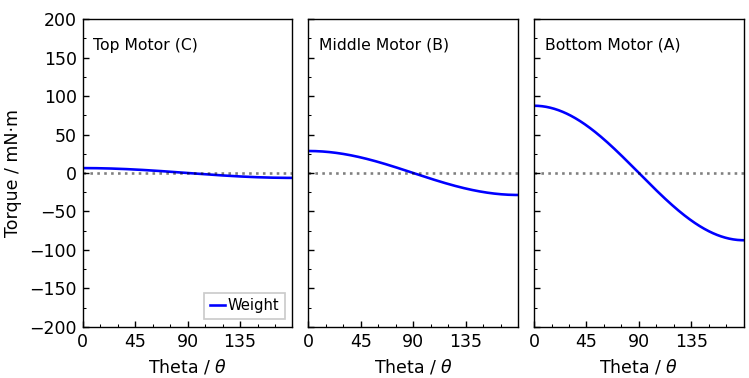
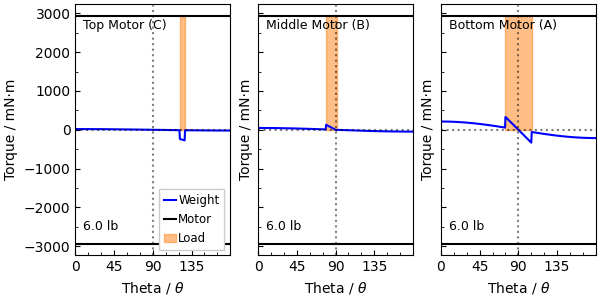
Readme updates

Changed region(s): [[0.0, 0.0, 1.0, 0.99], [0.9, 0.54, 0.93, 0.6], [0.75, 0.3, 0.78, 0.33]]

diff --git a/Software/Moving Model/V0.6/ST3215 Servo Torque Model V0.2.py b/Software/Moving Model/V0.6/ST3215 Servo Torque Model V0.2.py
@@ -140,75 +140,78 @@ titles = ["Top Motor (C)", "Middle Motor (B)", "Bottom Motor (A)"]
 ##################### Plotting
 
 fig, ax = plt.subplots(
-    1, 1, sharex=True, sharey=True,
+    1, 3, sharex=True, sharey=True,
     figsize=(6, 3),
     constrained_layout=True
 )
 
 
 
-wt, st = [], []
-i = 2
+
+for i in range(0,3):
+    wt, st = [], []
 
 
+    for theta in x:
+        active = minmax[i][0] <= theta <= minmax[i][1]
+        weights, lengths = motor_loads(active)
 
+        moments = np.sum(weights * lengths, axis=1)
+        wt.append(moments[i] * G * np.cos(np.deg2rad(theta)) * 1000)
+        st.append(SPRING_K * (theta + (360*extra_winds) + spring_angle_offset ) * 1000)
 
-for theta in x:
-    active = minmax[i][0] <= theta <= minmax[i][1]
-    weights, lengths = motor_loads(active)
+    ##### Plot 1
+    save_text = "Torque_Raw.png"
+    ax[i].plot(x, wt, "b", alpha=1, label="Weight")
+    ax[i].plot(x, np.ones_like(x) * MOTOR_TORQUE * 1000, "k", label="Motor")
+    ax[i].plot(x, -np.ones_like(x) * MOTOR_TORQUE * 1000, "k")
+    ax[i].axhline(0, color="k", linestyle="dotted", alpha=0.5)
+    ax[i].axvline(90, color="k", linestyle="dotted", alpha=0.5)
 
-    moments = np.sum(weights * lengths, axis=1)
-    wt.append(moments[i] * G * np.cos(np.deg2rad(theta)) * 1000)
-    st.append(SPRING_K * (theta + (360*extra_winds) + spring_angle_offset ) * 1000)
-
-ax.plot(x, np.ones_like(x) * MOTOR_TORQUE * 1000, "k", label="Motor")
-ax.plot(x, -np.ones_like(x) * MOTOR_TORQUE * 1000, "k")
-ax.plot(x, wt, "b", alpha=0.3, label="Weight")
-ax.plot(x, st, "r", alpha=0.3, label="Spring")
-ax.plot(x, np.array(wt) + np.array(st), "m", label="Total")
-ax.axhline(0, color="k", linestyle="dotted", alpha=0.5)
-
-ax.add_patch(
-    patches.Rectangle(
-        (minmax[i][0], 0),
-        minmax[i][1] - minmax[i][0],
-        MOTOR_TORQUE * 1000,
-        alpha=0.5,
-        color="tab:orange",
-        label = 'Load',
+    ax[i].add_patch(
+        patches.Rectangle(
+            (minmax[i][0], 0),
+            minmax[i][1] - minmax[i][0],
+            MOTOR_TORQUE * 1000,
+            alpha=0.5,
+            color="tab:orange",
+            label = 'Load',
+        )
     )
-)
-
-ax.text(0.05, 0.1, '%.1f lb Load \nKs: 7.5 in·lbf' % PLATE_LB, transform=ax.transAxes, fontsize=9)
-ax.text(0.05, 0.9, titles[i], transform=ax.transAxes, fontsize=9)
-ax.set_xlim(-0, 180)
-ax.set_xticks(range(-0,136,45))
-#         ax.set_ylim(-200, 200)
-ax.xaxis.set_minor_locator(AutoMinorLocator(3))
-ax.yaxis.set_minor_locator(AutoMinorLocator(2))
-ax.tick_params(axis='both',
-               which='both',
-               direction='in',)    
-
-ax.set_xlabel(r"Theta / $\theta$")
-
-
-
-ax.set_ylabel("Torque / mN·m")
-
-ax.legend(loc = 4,
-              ncol = 2,
-              columnspacing=0.5,
-              handletextpad=0.2,
-              fontsize = 8.5,
-              handlelength = 1,
-              facecolor = 'w',
-              framealpha = 1,
-              fancybox = False)
-
-save_text = "Torque_Spring.png"
     
-plt.savefig(r'C:\Users\antho\Documents\GitHub\Claw-Stand\assets\\' + save_text)
-plt.show()
+    ##### Plot 2
+#     ax[i].plot(x, st, "r", alpha=0.3, label="Spring")
+#     ax[i].plot(x, np.array(wt) + np.array(st), "m", label="Total")
+# 
 
+
+    ax[i].text(0.05, 0.1, r'%.1f lb' % PLATE_LB, transform=ax[i].transAxes, fontsize=9)
+    ax[i].text(0.05, 0.9, titles[i], transform=ax[i].transAxes, fontsize=9)
+    ax[i].set_xlim(-0, 180)
+
+    ax[i].set_xticks(range(-0,136,45))
+    #         ax.set_ylim(-200, 200)
+    ax[i].xaxis.set_minor_locator(AutoMinorLocator(3))
+    ax[i].yaxis.set_minor_locator(AutoMinorLocator(2))
+    ax[i].tick_params(axis='both',
+                   which='both',
+                   direction='in',)    
+
+    ax[i].set_xlabel(r"Theta / $\theta$")
+
+
+
+    ax[i].set_ylabel("Torque / mN·m")
+
+    ax[0].legend(loc = 4,
+                  ncol = 1,
+                  columnspacing=0.5,
+                  handletextpad=0.2,
+                  fontsize = 8.5,
+                  handlelength = 1,
+                  facecolor = 'w',
+                  framealpha = 1,
+                  fancybox = False)
+
+plt.savefig(r'C:\Users\antho\Documents\GitHub\Claw-Stand\assets\\' + save_text)
 plt.show()

diff --git a/Software/Deprecated/SC09 Servo Moving STL Model/SC09 Servo STL Model V0.0.2.py b/Software/Deprecated/SC09 Servo Moving STL Model/SC09 Servo STL Model V0.0.2.py
@@ -11,10 +11,10 @@ from PyQt5.QtWidgets import QApplication, QMainWindow
 
 # ================= File Imports ===================
 from Claw_Functions import * # Home brew package
-stl_path_A = r"..\..\..\Hardware\3D Models\Solidworks Servo\SC09\V0.2 - Bushing\Python_STL\SC09_Holder_Motor_A_Python.STL"
-stl_path_B = r"..\..\..\Hardware\3D Models\Solidworks Servo\SC09\V0.2 - Bushing\Python_STL\SC09_Holder_Motor_B_Python_2.STL"
-stl_path_C = r"..\..\..\Hardware\3D Models\Solidworks Servo\SC09\V0.2 - Bushing\Python_STL\SC09_Holder_Motor_C_Python.STL"
-stl_path_T = r"..\..\..\Hardware\3D Models\Solidworks Servo\SC09\V0.2 - Bushing\Python_STL\SC09_Holder_Motor_T_Python.STL"
+stl_path_A = r"..\..\..\Hardware\3D Models\SC09\V0.2 - Bushing\Python_STL\SC09_Holder_Motor_A_Python.STL"
+stl_path_B = r"..\..\..\Hardware\3D Models\SC09\V0.2 - Bushing\Python_STL\SC09_Holder_Motor_B_Python_2.STL"
+stl_path_C = r"..\..\..\Hardware\3D Models\SC09\V0.2 - Bushing\Python_STL\SC09_Holder_Motor_C_Python.STL"
+stl_path_T = r"..\..\..\Hardware\3D Models\SC09\V0.2 - Bushing\Python_STL\SC09_Holder_Motor_T_Python.STL"
 
 # ================= Parameters ===================
 

diff --git a/README.md b/README.md
@@ -297,67 +297,55 @@ def solve_thetas(Zp, Yp, Xp, A, B, C, T, Offset_R):
 
 ---
 
-## Part 2: Picking Some Parts.
+## Part 2: Hardware Selection
 
-Here we will discuss the hardware necessary for porting over the mathmatical model to the a real world model. 
+The angles needed for reaching a point in (x,y,z) space is now fully defined with the mathematical model. However, more thought is needed for selecting the hardware for turning the mathematicl model into a working phyiscal model
 
 ---
 ### The Motor:
 
-There are several classes of motor that would work for this project, but servo motors are chosen as the range of movement (<180°), built-in rotary encoder (for position tracking and tuning with PID), and step accuracy (the smaller the better) are too good to pass up for this project. The mathemetical demonstration in the Python Model Implementation section above has the minimum and maximum angles for the motors as:
+There are several classes of motor that were considered, but servo motors are chosen as the range of movement (<180°), built-in rotary encoder (for position tracking and tuning with PID), and step accuracy (the smaller the better) are ideal. Several makes and models of servo motors were evaluated:
 
-| Motor            | Min Angle | Max Angle | Delta Angle|
-|------------------|------|------|------|
-| Top (Motor C)    |  68.4    | 111.5     | 43.1   |
-| Middle (Motor B) |  20.8    |  77.1    |  56.1   |
-| Bottom (Motor A) |  87.8    |  109.7    |  21.9  |
+* [S8218 High Speed servo](https://www.cysmodel.com/products/cys-s8218-40kg-digital-metal-gear-servo/)
+* [SC09 Series Serial Bus Servo](https://www.waveshare.com/SC09-Servo.htm)
+* [ST3215 Series Serial Bus Servo](https://www.waveshare.com/st3215-servo.htm?srsltid=AfmBOorEyoYq279kdzu4ZvWRVoV5O3Idv0StNNJXvp_PE0Ioi92Gx9X2)
 
-I've used the [Waveshare 2.3kg Serial Bus Servo](https://www.waveshare.com/sc09-servo.htm) from Waveshare in the past with much success. Plus, these motors have a serial interface which allows them to be easily controlled by a Raspberry Pi, which I will also be using for the logic-processing aspect of this project.
 
-### The Waveshare 2.3kg Serial Bus Servo Motor
+### Servo Motor Criteria
 
-These things pack quite a punch for their small size. The aspects we really care about for this project are:
+The three most important criteria for the servo motors to ensure a success build are as follows:
 
-| Specification                                     | Impact |
-|---------------------------------------------------|--------|
-| Dimensions: 23.2 × 12.0 × 25.5 mm                 | Positioning       |
-| Position Sensor Resolution: 0.293° (300° / 1024)  | Positioning       |
-| Gear Type: High-precision metal gear              | Positioning       |
-| Max Locked-Rotor Torque: 2.3 kg·cm @ 6 V          | Torque Calculation       |
-| Rated Torque: 0.7 kg·cm @ 6 V                     | Torque Calculation       |
-| No-load Speed: 0.1 s / 60° (≈ 100 RPM) @ 6 V      | Torque Calculation       |
-| Operating Voltage: 4.8 – 8.4 V                    | Power Supply Selection       |  
-| No-load Current: 150 mA @ 6 V                     | Power Supply Selection       |
-| Locked-Rotor Current (Stall): 1.0 A               | Power Supply Selection       |
+1. Small step angle (as well as compact)
+2. Strength requirement (to hold at least coffee mug)
 
-### Positioning:
+#### Step Angle
 
-#### Dimensions:
-
-Using the provided information of the motor sizes (23.2 × 12.0 × 25.5 mm), the Ball-And-Stick (BAS) model can be adjusted to reflect how these motors would behave. I used a CAD modeling software to create motor holders and joints to simulate how it would behave in real life. This is also a good sanity check to get $R_{offset}$, path height, and path radius to ensure the fingers don't crash into each other:
-
-#### Position Sensor Resolution:
-
-The BAS model has the oversight of showing us how the model would react with perfect decimal-point accuracy. In the real world, motors have an angle, the step angle or resolution angle, of how small they can exert movement in discrete steps. For instance, a large step can lead to unwanted behavior. Here is the model with a 2° step (notice the choppiness and inaccurate positioning on the the wanted path):
+The Ball-And-Stick model has the oversight of showing us how the model would react with perfect decimal-point accuracy. In the real world, motors have an angle, the step angle or resolution angle, of how small they can exert movement in discrete steps. For instance, a large step can lead to unwanted behavior. A Computer Aided Design (CAD) was built for the SC09 motors, where the components were designed in mind for 3D printing later on. The model with a 2° step is seen here (notice the choppiness and inaccurate positioning on the the wanted path):
 
 <div align="center">
   <img src="assets/Actual Claw Big Step.gif" alt="Actual Model 2°" />
 </div>
 
-
-
 <br>
 
-Luckily, the Waveshare 2.3kg Serial Bus Servo Motor utilizes a gearbox to obtain a step size of 0.293°:
+Choppiness and innacuracy of the fingers is seen, indicating that there will be poor movement and stability. A smaller step angle is needed to ensure smooth control. 
 
-<div align="center">
-  <img src="assets/Actual Claw.gif" alt="Actual Model" />
-</div>
+The smallest step angle size and  10x step angle size (closer to actual movement due to internal deadband settings), is seen for each motor below:
+
+| Make    | Min Step Size  | Acutal Step Size | 
+|---------|----------------|------------------|
+| S8218   |      0.360     |      3.60        |
+| SC09    |      0.293     |      2.93        | 
+| ST3215  |      0.088     |      0.88        |
+
+A CAD model for the ST3215 was to show the operation for a 0.88° step angle, where much better control smoothness is observed:
 
 
-#### Gear Type:
 
-Uh-oh..... "High-precision metal gear"..... "Gearbox".... that's not good. Gearboxes are good for increasing torque and increasing position resolution, but they are bad because they introduce *backlash*. Backlash is the clearance or lost motion in a mechanism caused by gaps between the parts. If there was no clearance between the gears, any anamoly would cause the gearbox to seize - causing lack or no motion and potential motor failure; so some backlash is desired. However, backlash in this system means that the rotor can move without the output shaft moving, causing a displacement between the modeled position and the actual position (*bad*).
+The S8218 and SC09 motors were no longer considered as they show poor control for this configuration.
+
+#### Strength Requirement
+The ST3215 achieves its positional accuracy by using a gearbox. Gearboxes are good for increasing torque (strength) and increasing position resolution, but they are bad because they introduce *backlash*. Backlash is the clearance or lost motion in a mechanism caused by gaps between the parts. If there was no clearance between the gears, any anamoly would cause the gearbox to seize - causing lack or no motion and potential motor failure; so some backlash is desired. However, backlash in this system means that the rotor can move without the output shaft moving, causing a displacement between the modeled position and the actual position (*bad*).
 
 Here is a picture depicting backlash:
 
@@ -365,68 +353,39 @@ Here is a picture depicting backlash:
   <img src="assets/Backlash.png" alt="Backlash" />
 </div>
 
-See how one side of the teeth is engaged? We can use this to our advantage. Looking at bottom motor (Motor A) for example, we know that the gravity will pull the gearings to one side, until 90 degrees, where it will slop over to the other side. Assigning positive torque to a clockwise direction (and thus a negative torque is counter clockwise), we can deduce this diagram by finding the moment associated for each motor, where the moment is described as:
+Only one side of the gear teeth is engaged at a time. Once the gears spin the other direction, there will be a moment in time (and space) where the contact has to shift from one side to the other. However, if a sufficient amount of external torque is applied, one side of the gear will be engaged at all times - and therefore eliminating backlash.
 
-$$\tau = \sum_{i=1}^{n} l_i·m_i·g·cos(\theta); $$
+Looking at bottom motor (Motor A) for example, gravity will pull the gearings to one side, until 90 degrees, where it will slop over to the other side. Assigning positive torque to a clockwise direction (and thus a negative torque is counter clockwise), the moment ($\tau$) associated for each motor is found as:
 
-$$\tau_C = [T(m_{plastic,T})]·g·cos(\theta)$$
+$$\tau = \sum_{i=1}^{n} l_i·m_i·g·cos(\theta) + l_L·m_L·g·cos(\theta); $$
 
-$$\tau_B = [T(m_{plastic,T}) + (T+C)(m_{plastic}+m_{motor})]·g·cos(\theta) $$
+$$\tau_C = [T·(m_{p,T})]·g·cos(\theta) + T·m_L·g·cos(\theta)$$
 
-$$\tau_B = [T(m_{plastic,T}) + (T+C)(m_{plastic}+m_{motor}) + (T+C+B)(m_{plastic}+m_{motor})]·g·cos(\theta) $$
+$$\tau_B = [T·(m_{p,T}) + (T+C)·(m_{p,T}+m_{p,C}+m_{m})]·g·cos(\theta) + (T+C)·m_L·g·cos(\theta)$$
+
+$$\tau_A = [T·(m_{p,T}) + (T+C)·(m_{p,T}+m_{p,C}+m_{m}) + (T+C+B)·(m_{p,T}+m_{p,C}+m_{p,B}+ 2m_{m})]·g·cos(\theta) + (T+C+B)·m_L·g·cos(\theta) $$
+
+where $l_i$ is arm length, $l_L$ is load length, $m_{p}$ is mass of plastic, $m_{m}$ is mass of motor, $m_{L}$ is mass of load, and $g$ is gravity. Note that the moments $\tau_B$ and $\tau_A$ are taken as worst-case scenarios of the finger being fully extended.
+
+The torque vs. angle behavior, where the load is only applied during contact with the plate,
+is seen here: 
+
 
 <div align="center">
   <img src="assets/Torque_Raw.png" alt="Torque_Raw" />
 </div>
 
-To have the gears stay on one side, we will need to impose a torque associated with angle. Luckily, torsion springs are able to do so, with their torque equation is described as:
+My father chimed in at this point to point out that the torque measurment only needs to be considered for motors that have angles cross the 90° mark. This agrees with the point that as long there is no change in sign (+/-) of torque, there is no switch over from one gearing side to the other. Thus, motors C and B are removed from further analysis.
+
+
+An additional torque will be needed to have the gears stay on one side for motor A. A torsion spring will be added to raise the torqe as a function of the angle, with the relationship seen as:
 
 $$\tau_S = K_s\theta$$
 
-We can increase the torque with the angle moved (assuming a 270° spring deflection) so that it preloads the gears when we get passed 90°, as such with a $K_S$ of 1.4 in·lbf/degree:
+The torque increased with the angle moved (assuming a 270° spring deflection) so that the gears are preloaded the angle reaches 90°. The torque behavior with the added spring is seen as:
 
 <div align="center">
   <img src="assets/Torque_Spring.png" alt="Torque_Spring" />
 </div>
 
-However, we must now check that the combined torque of the spring and the weight do not exceed the torque the motor can generate.
-
-### Torque Calculation:
-
-With the Waveshare SC09 servo rated at 0.7 kg·cm (≈ 68.6 mN·m) of torque at 6 V and a stall torque of 2.3 kg·cm (≈ 225.5 mN·m), achieving a torque of 1.3 mN·m is easily within the operating range. Since 1.3 mN·m is only about 0.013 kg·cm, it represents less than 2 % of the rated torque at 6 V. 
-
-In practice, torque generated by the servo increases with higher applied voltage up to its specified limit, so operating at the full 6 V supply ensures we have a large torque margin above 1.3 mN·m even under load. Additionally, torque and speed are inversely related in hobby servos: as torque demand rises (closer to the stall torque), speed drops, so if your application requires maintaining torque above 1.3 mN·m under heavier loads, we should expect slower movement than the no-load speed of ~0.1 s/60° (≈100 RPM) at 6 V. So, lets assume that these motors can generate ~1.3 mN·m of torque and apply that to our diagram:
-
-<div align="center">
-  <img src="assets/Torque_Total.png" alt="Torque_Total" />
-</div>
-
-However, we forgot to include the load in our calculation. Right now, the diagram shows the only the torque associated with moving the finger itself, but we want to rotate and object and the plate as well. 
-
-Bringing back this table:
-
-| Motor            | Min Angle | Max Angle | Delta Angle|
-|------------------|------|------|------|
-| Top (Motor C)    |  68.4    | 111.5     | 43.1   |
-| Middle (Motor B) |  20.8    |  77.1    |  56.1   |
-| Bottom (Motor A) |  87.8    |  109.7    |  21.9  |
-
-and adding the moment associated with a load to our torque calculations
-
-$$\tau_{C,load} = [T(m_{load})]·g·cos(\theta)$$
-
-$$\tau_{B,load} = [(C+T)(m_{load})]·g·cos(\theta)$$
-
-$$\tau_{A,load} = [(B+C+T)(m_{load})]·g·cos(\theta)$$
-
-we can predict the true behavior of the model (assuming a 0.5 lb load):
-
-
-<div align="center">
-  <img src="assets/Torque_Load.png" alt="Torque_Load" />
-</div>
-
-<br>
-
-
-A half a pound is not a whole-lot of weight. But remember, these motors are small, and the entire claw is less than 7 inches in height, so it's pretty dang small. I'm surprised the math even works out that well in the first place. This model will serve as a proof of concept, with a bigger model with bigger (and more powerful) motors can be developed in the future.
+The torque is now brought to one side (positive) and remains there for all angles - ensuring that the gears are continuously in contact. Motors A, B, and C are now fully defined
